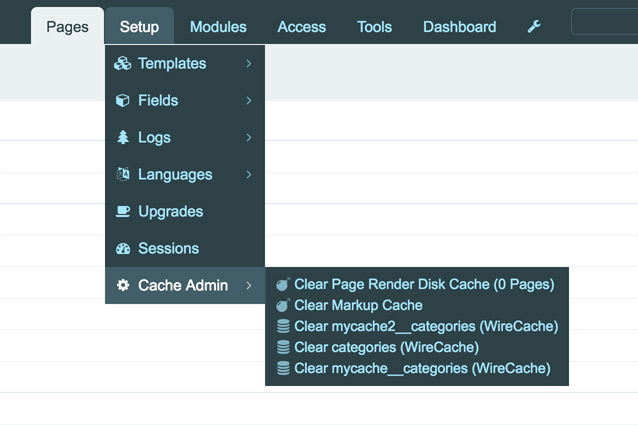
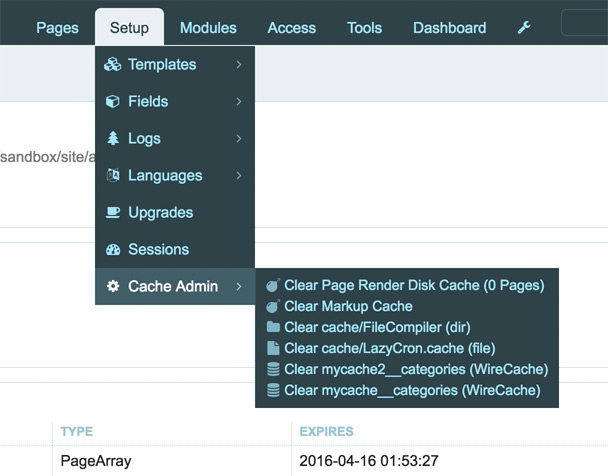
auto show submits, changed labels

Changed region(s): [[0.0, 0.0, 1.0, 1.0]]

diff --git a/ClearCacheAdmin.js b/ClearCacheAdmin.js
@@ -15,6 +15,25 @@
             }
         });
 
+        var $submitFiles = $("#wrap_Inputfield_submitfiles").hide();
+        $('#clearcachedirs').on("change", function(){
+            $checkboxes = $(this).find("input[type=checkbox]:checked");
+            if($checkboxes.length){
+                $submitFiles.fadeIn();
+            } else {
+                $submitFiles.fadeOut();
+            }
+        });
+
+        var $submitWireCache = $("#wrap_Inputfield_submitwirecache").hide();
+        $('#clearwirecache').on("change", function(){
+            $checkboxes = $(this).find("input[type=checkbox]:checked");
+            if($checkboxes.length){
+                $submitWireCache.fadeIn();
+            } else {
+                $submitWireCache.fadeOut();
+            }
+        });
     });
 
 })(jQuery);

diff --git a/ClearCacheAdmin.module.php b/ClearCacheAdmin.module.php
@@ -18,7 +18,7 @@ class ClearCacheAdmin extends Process{
         return array(
             'title' => 'Clear Cache Admin',
             'summary' => 'Tool that helps you clear page cache.',
-            'version' => 2,
+            'version' => 3,
             'author' => 'Soma',
             'icon' => 'gear',
             'page' => array(
@@ -33,7 +33,6 @@ class ClearCacheAdmin extends Process{
         );
     }
 
-
     public function ___execute(){
 
         $modules = $this->wire("modules");
@@ -45,6 +44,9 @@ class ClearCacheAdmin extends Process{
         $form = $modules->InputfieldForm;
         $form->attr("action", "./");
         $submit = $modules->InputfieldSubmit;
+        $submit->attr("name", "submitpagecache");
+        $submit->attr("value", __("Clear now"));
+        $submit->showIf = "clearCache=1";
         $form->add($inputfields);
         $form->add($submit);
         $out .= $form->render();
@@ -55,6 +57,9 @@ class ClearCacheAdmin extends Process{
         $form = $modules->InputfieldForm;
         $form->attr("action", "./");
         $submit = $modules->InputfieldSubmit;
+        $submit->attr("name", "submitmarkupcache");
+        $submit->attr("value", __("Clear now"));
+        $submit->showIf = "_clearCache=1";
         $form->add($inputfields);
         $form->add($submit);
         $out .= $form->render();
@@ -68,6 +73,7 @@ class ClearCacheAdmin extends Process{
 
                 $form = $modules->InputfieldForm;
                 $form->attr("action", "./clearwirecache");
+                $form->attr("id", "clearwirecache");
 
                 $table = $modules->MarkupAdminDataTable;
                 $wireCacheID = "wirecachetable";
@@ -100,6 +106,8 @@ class ClearCacheAdmin extends Process{
                 $tableMarkup->value .= $toggleBtn;
                 $form->add($tableMarkup);
                 $submit = $modules->InputfieldSubmit;
+                $submit->attr("name", "submitwirecache");
+                $submit->attr("value", __("Clear now"));
                 $form->add($submit);
                 $out .= $form->render();
 
@@ -122,6 +130,7 @@ class ClearCacheAdmin extends Process{
         if(count($cacheDirs)){
             $form = $modules->InputfieldForm;
             $form->attr("action", "./clearcachedirs");
+            $form->attr("id", "clearcachedirs");
             $f = $modules->InputfieldMarkup;
             $f->label = __("Clear other files or directories?");
             $f->notes = __("Other files and directories as found in site/assets/cache/. They will get deleted recursively.");
@@ -133,6 +142,8 @@ class ClearCacheAdmin extends Process{
             }
             $form->add($f);
             $submit = $modules->InputfieldSubmit;
+            $submit->attr("name", "submitfiles");
+            $submit->attr("value", __("Clear now"));
             $form->add($submit);
             $out .= $form->render();
         }
@@ -141,7 +152,6 @@ class ClearCacheAdmin extends Process{
         return $out;
 
     }
-
 
     public function ___executeClearPageCache(){
         $this->wire('input')->post->clearCache = 1;
@@ -157,7 +167,6 @@ class ClearCacheAdmin extends Process{
         $this->message(sprintf(__("Cleared %d MarkupCache files and dirs."), $numFiles));
         $modules->session->redirect($this->wire("page")->url);
     }
-
 
     public function ___executeClearWireCache(){
         $modules = $this->wire("modules");
@@ -200,7 +209,6 @@ class ClearCacheAdmin extends Process{
 
         $modules->session->redirect($this->wire("page")->url);
     }
-
 
     public function ___executeNavJson(array $options = array()){
 
@@ -278,8 +286,6 @@ class ClearCacheAdmin extends Process{
         return $dirs;
     }
 
-
-
     protected function getExpiringWireCaches(){
         $wireCache = $this->wire("cache")->getInfo(false);
         $expiringCache = array();
@@ -294,3 +300,4 @@ class ClearCacheAdmin extends Process{
     }
 
 }
+
